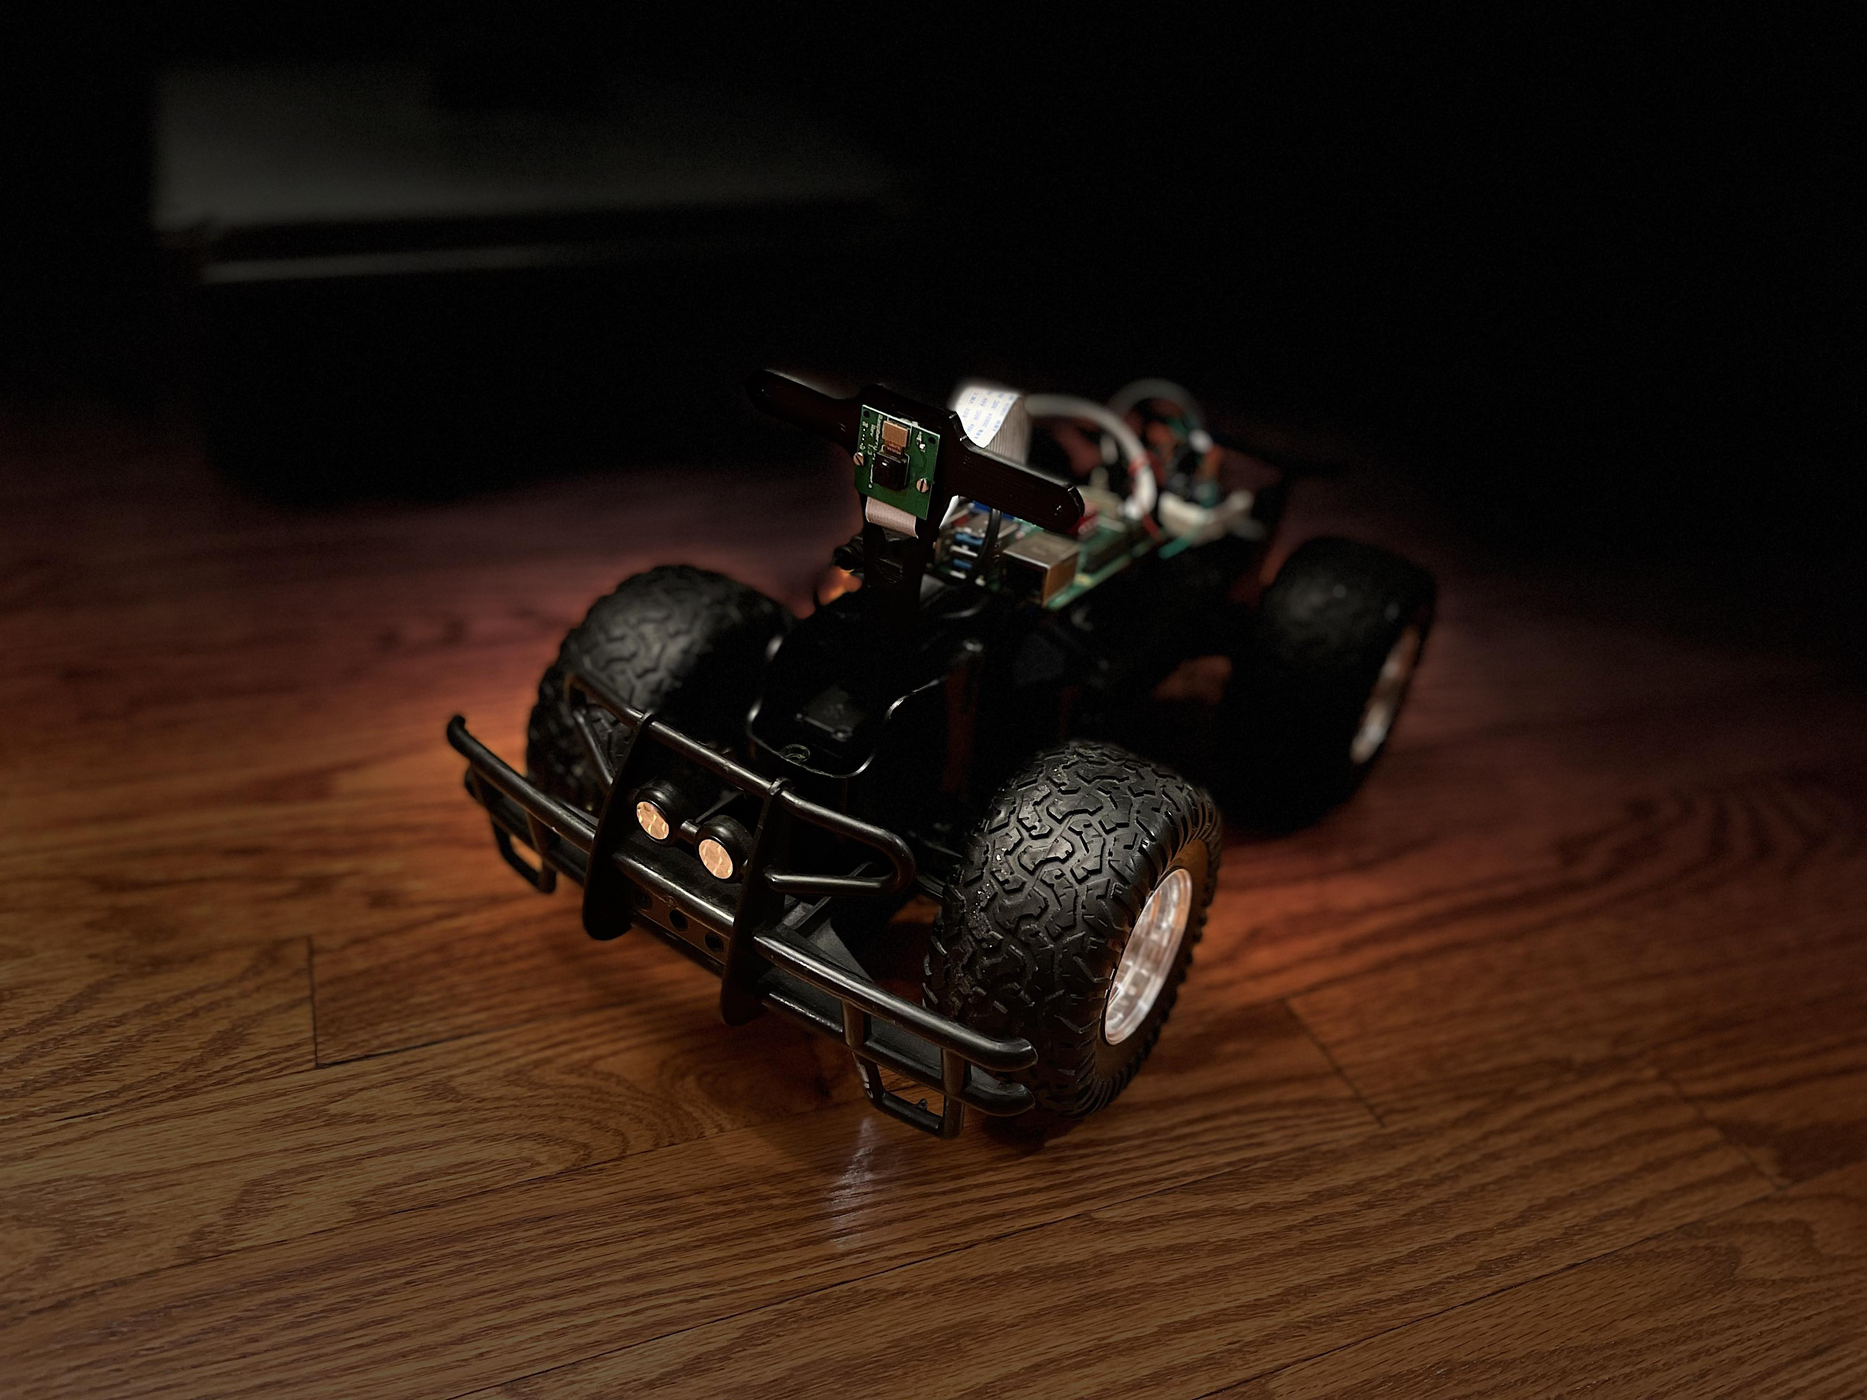
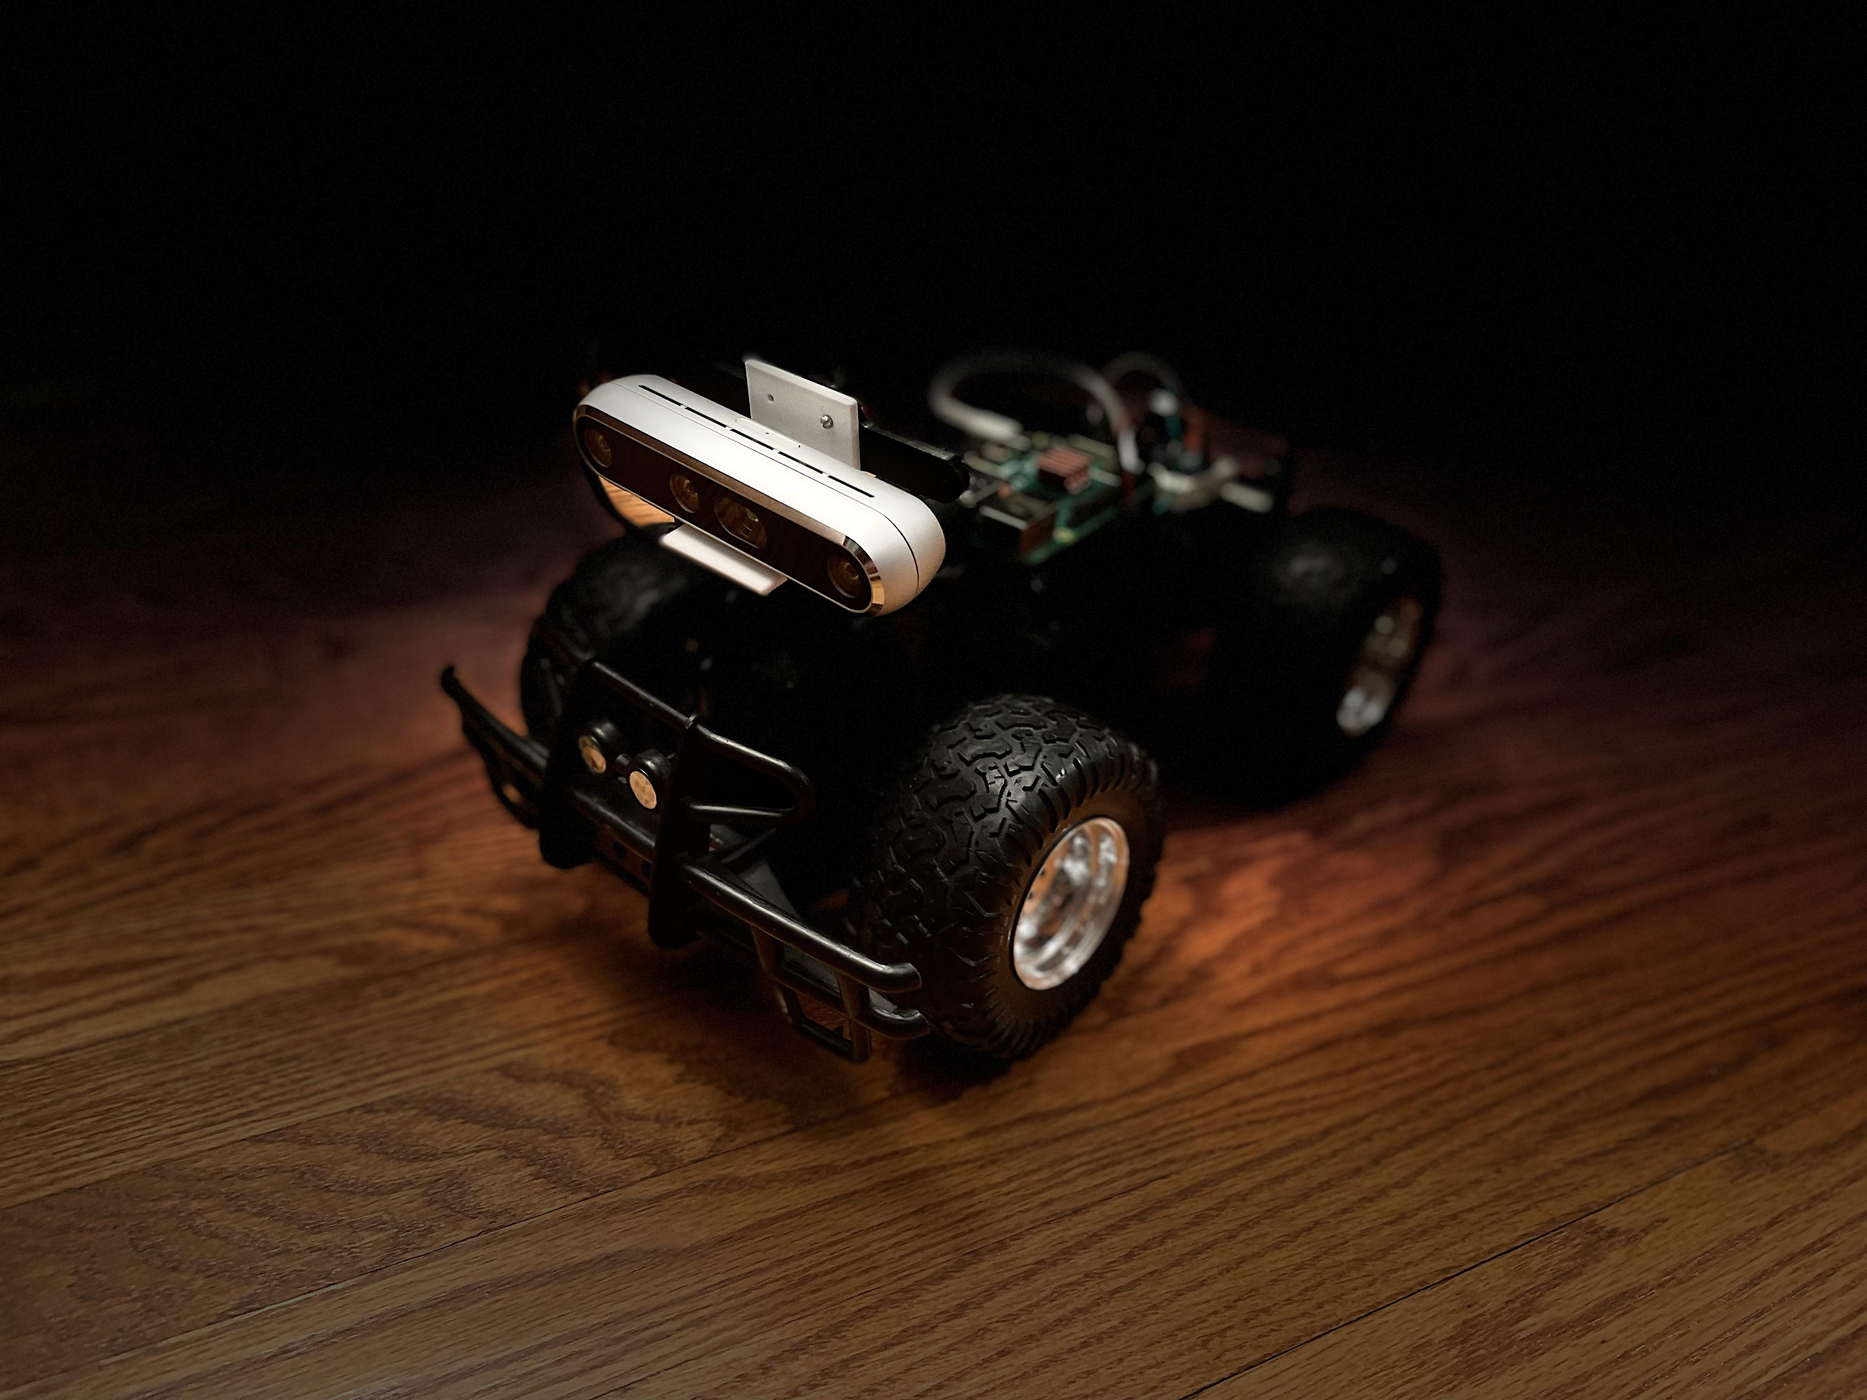
Added more portfolio images, added Austin's image, added Atlas Beta

diff --git a/index.html b/index.html
@@ -60,7 +60,7 @@
     <div class="container position-relative" data-aos="fade-up" data-aos-delay="100">
       <div class="row justify-content-center">
         <div class="text-center">
-          <h1 style="font-size: 128px; color: #D11149">Atlas Autoware</h1>
+          <h1 style="color: #D11149">Atlas Autoware</h1>
           <br><br>
           <h2 style="font-size: 25px; padding-top: 10px;"><b>Driving toward the future.</b></h2>
           <br>
@@ -119,29 +119,6 @@
           <p style="font-weight: bold; font-size: 20px;">Our mission is to build a fully street-legal self-driving car by 2026.</p>
         </div>
         
-
-        <!-- <div class="row content">
-          <div class="col-lg-6">
-            <p style="color: white">
-              Lorem ipsum dolor sit amet, consectetur adipiscing elit, sed do eiusmod tempor incididunt ut labore et dolore
-              magna aliqua.
-            </p>
-            <ul style="color: white">
-              <li><i class="ri-check-double-line"></i> Ullamco laboris nisi ut aliquip ex ea commodo consequat</li>
-              <li><i class="ri-check-double-line"></i> Duis aute irure dolor in reprehenderit in voluptate velit</li>
-              <li><i class="ri-check-double-line"></i> Ullamco laboris nisi ut aliquip ex ea commodo consequat</li>
-            </ul>
-          </div>
-          <div class="col-lg-6 pt-4 pt-lg-0" style="color: white">
-            <p>
-              Ullamco laboris nisi ut aliquip ex ea commodo consequat. Duis aute irure dolor in reprehenderit in voluptate
-              velit esse cillum dolore eu fugiat nulla pariatur. Excepteur sint occaecat cupidatat non proident, sunt in
-              culpa qui officia deserunt mollit anim id est laborum.
-            </p>
-            <a href="#about-video" class="btn-learn-more">AtlasAutoware in Action</a>
-          </div>
-        </div> -->
-        
         <div class="timeline">
           <ul>
             <li>
@@ -162,6 +139,13 @@
             <li>
               <div class="timeline-content">
                 <h2 class="date" style="padding-left: 80%;">2024</h2>
+                <h1>Atlas Beta</h1>
+                <p> Beta is an affordable and accessible 3D-Printed automotive robotic platform. The design specifications will be open-source and made freely available to the public. The primary objective of Atlas Beta is to aid middle and high school teachers, as well as extracurricular clubs. The open-source project will provide a guide with assembly instructions as well as a parts list to purchase to to construct this low cost platform in order to teach students about robotics and self-driving vehicles as well as our proprietary algorithms developed specifically for this platform. A kit will also be available for educators to purchase directly from us to simplify this process and to ensure that all the necessary components are included. The kit will contain all the required 3D-printed parts, electronics, sensors, and a comprehensive manual to assist teachers in effectively implementing the curriculum. </p>
+              </div>
+            </li>
+            <li>
+              <div class="timeline-content">
+                <h2 class="date" style="padding-left: 80%;">2025</h2>
                 <h1>Atlas Alpha</h1>
                 <p>Alpha is an Autonomous Low Speed Vehicle, street legal on all non interstate roads. Its lightweight chassis and electric AWD powertrain make it the perfect platform to develop autonomous driving algorithms on. Alpha uses an array of depth cameras for perception, fusing the data with GNSS and inertial units to gain full awareness of it's current position in space. Alpha is already in development and will help propel research regarding Autonomous driving in low speed urban environments.
                 </p>
@@ -169,7 +153,7 @@
             </li>
             <li>
               <div class="timeline-content">
-                <h2 class="date" style="transform: translateX(-20%);">2025</h2>
+                <h2 class="date" style="transform: translateX(-20%);">2026</h2>
                 <h1>Atlas Proxima</h1>
                 <p>Proxima is a full scale Self-Driving Sedan, and will meet Federal regulations for street legal status on every kind of road. Based on the Alpha platform, it will have a lengthened chassis and body, more powerful powertrain, LIDAR perception, and extended range to meet the needs of a Level 4 self-driving vehicle. With its modular body, low cost powertrain and free API,  Proxima will set a new standard for open source electric vehicles and their capabilities.
                 </p>
@@ -180,207 +164,145 @@
       </div>
     </section><!-- End About Section -->
 
-    <!-- ======= Counts Section ======= -->
-    <!-- <section id="counts" class="counts section-bg">
-      <div class="container">
-
-        <div class="row justify-content-end">
-
-          <div class="col-lg-3 col-md-5 col-6 d-md-flex align-items-md-stretch">
-            <div class="count-box">
-              <span data-purecounter-start="0" data-purecounter-end="20" data-purecounter-duration="2" class="purecounter"></span>
-              <p>Members</p>
-            </div>
-          </div>
-
-          <div class="col-lg-3 col-md-5 col-6 d-md-flex align-items-md-stretch">
-            <div class="count-box">
-              <span data-purecounter-start="0" data-purecounter-end="3279" data-purecounter-duration="2" class="purecounter"></span>
-              <p>Dollars in Expenses</p>
-            </div>
-          </div>
-
-          <div class="col-lg-3 col-md-5 col-6 d-md-flex align-items-md-stretch">
-            <div class="count-box">
-              <span data-purecounter-start="0" data-purecounter-end="200" data-purecounter-duration="2" class="purecounter"></span>
-              <p>Hours of Work</p>
-            </div>
-          </div>
-
-          <div class="col-lg-3 col-md-5 col-6 d-md-flex align-items-md-stretch">
-            <div class="count-box">
-              <span data-purecounter-start="0" data-purecounter-end="7" data-purecounter-duration="2" class="purecounter"></span>
-              <p>Company Officers</p>
-            </div>
-          </div>
-
-        </div>
-
-      </div>
-    </section> -->
-    <!-- End Counts Section -->
-
-    <!-- ======= About Video Section ======= -->
-    <!-- <section id="about-video" class="about-video">
-      <div class="container" data-aos="fade-up">
-
-        <div class="row">
-
-          <div class="col-lg-6 video-box align-self-baseline" data-aos="fade-right" data-aos-delay="100">
-            <img src="assets/img/comingsoon.png" class="img-fluid" alt="">
-            <a href="https://www.youtube.com/watch?v=-Pg819il8lY&ab_channel=TeamRighteousInferno" class="glightbox play-btn mb-4" data-vbtype="video" data-autoplay="true"></a>
-          </div>
-
-          <div class="col-lg-6 pt-3 pt-lg-0 content" data-aos="fade-left" data-aos-delay="100">
-            <h3 style="color: #5bd183">AtlasAutoware in action</h3>
-            <p style="color: white" class="fst-italic">
-              Lorem ipsum dolor sit amet, consectetur adipiscing elit, sed do eiusmod tempor incididunt ut labore et dolore
-              magna aliqua.
-            </p>
-            <ul>
-              <li style="color: white" ><i style="color: #5bd183" class="bx bx-check-double"></i> Ullamco laboris nisi ut aliquip ex ea commodo consequat.</li>
-              <li style="color: white" ><i style="color: #5bd183" class="bx bx-check-double"></i> Duis aute irure dolor in reprehenderit in voluptate velit.</li>
-              <li style="color: white" ><i style="color: #5bd183" class="bx bx-check-double"></i> Voluptate repellendus pariatur reprehenderit corporis sint.</li>
-              <li style="color: white" ><i style="color: #5bd183" class="bx bx-check-double"></i> Ullamco laboris nisi ut aliquip ex ea commodo consequat. Duis aute irure dolor in reprehenderit in voluptate trideta storacalaperda mastiro dolore eu fugiat nulla pariatur.</li>
-            </ul>
-            <p style="color: white">
-              Ullamco laboris nisi ut aliquip ex ea commodo consequat. Duis aute irure dolor in reprehenderit in voluptate
-              velit esse cillum dolore eu fugiat nulla pariatur. Excepteur sint occaecat cupidatat non proident, sunt in
-              culpa qui officia deserunt mollit anim id est laborum
-            </p>
-          </div>
-
-        </div>
-
-      </div>
-    </section> -->
-
 <!-- ======= Portfolio Section ======= -->
 <section id="portfolio" class="portfolio">
   <div class="container" data-aos="fade-up">
     <div class="section-title">
-      <h2 style="color: #5bd183">Photo Gallery</h2>
+      <h2 style="color: #D11149">Photo Gallery</h2>
       <p>  </p>
     </div>
     <div class="row" data-aos="fade-up" data-aos-delay="150">
       <div class="col-lg-12 d-flex justify-content-center">
         <ul id="portfolio-flters">
           <li data-filter="*" class="filter-active">All</li>
-          <li data-filter=".filter-one">Filter 1</li>
-          <li data-filter=".filter-two">Filter 2</li>
-          <li data-filter=".filter-three">Filter 3</li>
+          <li data-filter=".filter-team">Team</li>
+          <li data-filter=".filter-candid">Candid</li>
+          <li data-filter=".filter-self">Self-Driving</li>
+          <li data-filter=".filter-lsv">LSV</li>
         </ul>
       </div>
     </div>
     <div class="row portfolio-container" data-aos="fade-up" data-aos-delay="300">
-      <div class="col-lg-4 col-md-6 portfolio-item filter-one">
+      <div class="col-lg-4 col-md-6 portfolio-item filter-candid">
         <div class="portfolio-wrap">
           <img src="assets/img/portfolio/portfolio-1.jpg" class="img-fluid" alt="">
           <div class="portfolio-info">
-            <h4>Photo 1</h4>
-            <p>Description</p>
+            <!-- <h4>Photo 1</h4> -->
+            <p>Adi working on the early stages of our 1/10 scale autonomous racecar. In front of it is SpeedRacer, our low-cost autonomous racing platform which incorporates a LiDAR sensor and ESP32 microcontroller. </p>
             <div class="portfolio-links">
-              <a href="assets/img/portfolio/portfolio-1.jpg" data-gallery="portfolioGallery" class="portfolio-lightbox" title="Description"><i class="bx bx-plus"></i></a>
+              <a href="assets/img/portfolio/portfolio-1.jpg" data-gallery="portfolioGallery" class="portfolio-lightbox" title="Description"> <i class="bx bx-plus"></i></a>
             </div>
           </div>
         </div>
       </div>
-      <div class="col-lg-4 col-md-6 portfolio-item filter-two">
+      <div class="col-lg-4 col-md-6 portfolio-item filter-self">
         <div class="portfolio-wrap">
           <img src="assets/img/portfolio/portfolio-2.jpg" class="img-fluid" alt="">
           <div class="portfolio-info">
-            <h4>Photo 2</h4>
-            <p>Description</p>
+            <!-- <h4>Photo 2</h4> -->
+            <p>Early testing in 2022 of our SpeedRacer platform.</p>
             <div class="portfolio-links">
               <a href="assets/img/portfolio/portfolio-2.jpg" data-gallery="portfolioGallery" class="portfolio-lightbox" title="Description"><i class="bx bx-plus"></i></a>
             </div>
           </div>
         </div>
       </div>
-      <div class="col-lg-4 col-md-6 portfolio-item filter-two">
+      <div class="col-lg-4 col-md-6 portfolio-item filter-self">
         <div class="portfolio-wrap">
           <img src="assets/img/portfolio/portfolio-3.jpg" class="img-fluid" alt="">
           <div class="portfolio-info">
-            <h4>Photo 3</h4>
-            <p>Description</p>
+            <!-- <h4>Photo 3</h4> -->
+            <p>The final SpeedRacer prototype, with 3 point LiDAR sensors added for emergency braking and steering. </p>
             <div class="portfolio-links">
               <a href="assets/img/portfolio/portfolio-3.jpg" data-gallery="portfolioGallery" class="portfolio-lightbox" title="Description"><i class="bx bx-plus"></i></a>
             </div>
           </div>
         </div>
       </div>
-      <div class="col-lg-4 col-md-6 portfolio-item filter-three">
+      <div class="col-lg-4 col-md-6 portfolio-item filter-self">
+        <div class="portfolio-wrap">
+          <img src="assets/img/portfolio/portfolio-4.jpg" class="img-fluid" alt="">
+          <div class="portfolio-info">
+            <!-- <h4>Photo 4</h4> -->
+            <p>Manav's testing car, with an Intel RealSense stereo depth camera mounted on it. </p>
+            <div class="portfolio-links">
+              <a href="assets/img/portfolio/portfolio-4.jpg" data-gallery="portfolioGallery" class="portfolio-lightbox" title="Description"><i class="bx bx-plus"></i></a>
+            </div>
+          </div>
+        </div>
+      </div>
+      <div class="col-lg-4 col-md-6 portfolio-item filter-self">
         <div class="portfolio-wrap">
           <img src="assets/img/portfolio/portfolio-5.jpg" class="img-fluid" alt="">
           <div class="portfolio-info">
-            <h4>Photo 4</h4>
-            <p>Description</p>
+            <!-- <h4>Photo 5</h4> -->
+            <p>A close-up of the stereo depth camera mounting to the car chassis.</p>
             <div class="portfolio-links">
               <a href="assets/img/portfolio/portfolio-5.jpg" data-gallery="portfolioGallery" class="portfolio-lightbox" title="Description"><i class="bx bx-plus"></i></a>
             </div>
           </div>
         </div>
       </div>
-      <div class="col-lg-4 col-md-6 portfolio-item filter-three">
-        <div class="portfolio-wrap">
-          <img src="assets/img/portfolio/portfolio-7.jpg" class="img-fluid" alt="">
-          <div class="portfolio-info">
-            <h4>Photo 5</h4>
-            <p>Description</p>
-            <div class="portfolio-links">
-              <a href="assets/img/portfolio/portfolio-7.jpg" data-gallery="portfolioGallery" class="portfolio-lightbox" title="Description"><i class="bx bx-plus"></i></a>
-            </div>
-          </div>
-        </div>
-      </div>
-      <!-- <div class="col-lg-4 col-md-6 portfolio-item filter-one">
+      <div class="col-lg-4 col-md-6 portfolio-item filter-lsv">
         <div class="portfolio-wrap">
           <img src="assets/img/portfolio/portfolio-6.jpg" class="img-fluid" alt="">
           <div class="portfolio-info">
-            <h4>Photo 6</h4>
-            <p>Description</p>
+            <!-- <h4>Photo 6</h4> -->
+            <p>  </p>
             <div class="portfolio-links">
               <a href="assets/img/portfolio/portfolio-6.jpg" data-gallery="portfolioGallery" class="portfolio-lightbox" title="Description"><i class="bx bx-plus"></i></a>
             </div>
           </div>
         </div>
       </div>
-      <div class="col-lg-4 col-md-6 portfolio-item filter-two">
+      <div class="col-lg-4 col-md-6 portfolio-item filter-lsv">
         <div class="portfolio-wrap">
           <img src="assets/img/portfolio/portfolio-7.jpg" class="img-fluid" alt="">
           <div class="portfolio-info">
-            <h4>Photo 7</h4>
-            <p>Description</p>
+            <!-- <h4>Photo 7</h4> -->
+            <p>  </p>
             <div class="portfolio-links">
               <a href="assets/img/portfolio/portfolio-7.jpg" data-gallery="portfolioGallery" class="portfolio-lightbox" title="Description"><i class="bx bx-plus"></i></a>
             </div>
           </div>
         </div>
-      </div> -->
-      <!-- <div class="col-lg-4 col-md-6 portfolio-item filter-two">
+      </div>
+      <div class="col-lg-4 col-md-6 portfolio-item filter-lsv">
         <div class="portfolio-wrap">
           <img src="assets/img/portfolio/portfolio-8.jpg" class="img-fluid" alt="">
           <div class="portfolio-info">
-            <h4>Photo 8</h4>
-            <p>Description</p>
+            <!-- <h4>Photo 8</h4> -->
+            <p>  </p>
             <div class="portfolio-links">
               <a href="assets/img/portfolio/portfolio-8.jpg" data-gallery="portfolioGallery" class="portfolio-lightbox" title="Description"><i class="bx bx-plus"></i></a>
             </div>
           </div>
         </div>
       </div>
-      <div class="col-lg-4 col-md-6 portfolio-item filter-three">
+      <div class="col-lg-4 col-md-6 portfolio-item filter-candid">
         <div class="portfolio-wrap">
           <img src="assets/img/portfolio/portfolio-9.jpg" class="img-fluid" alt="">
           <div class="portfolio-info">
-            <h4>Photo 9</h4>
-            <p>Description</p>
+            <!-- <h4>Photo 9</h4> -->
+            <p>  </p>
             <div class="portfolio-links">
               <a href="assets/img/portfolio/portfolio-9.jpg" data-gallery="portfolioGallery" class="portfolio-lightbox" title="Description"><i class="bx bx-plus"></i></a>
             </div>
           </div>
         </div>
-      </div> -->
+      </div>
+      <div class="col-lg-4 col-md-6 portfolio-item filter-team">
+        <div class="portfolio-wrap">
+          <img src="assets/img/portfolio/portfolio-10.jpg" class="img-fluid" alt="">
+          <div class="portfolio-info">
+            <!-- <h4>Photo 10</h4> -->
+            <p> The Atlas Autoware team (2022) </p>
+            <div class="portfolio-links">
+              <a href="assets/img/portfolio/portfolio-10.jpg" data-gallery="portfolioGallery" class="portfolio-lightbox" title="Description"><i class="bx bx-plus"></i></a>
+            </div>
+          </div>
+        </div>
+      </div>
     </div>
   </div>
 </section><!-- End Portfolio Section -->
@@ -444,7 +366,7 @@
           <div class="col-lg-3 col-md-6 d-flex align-items-stretch" style="transform: translateX(50%);" data-aos="fade-up" data-aos-delay="200">
             <div class="member">
               <div class="member-img">
-                <img src="assets/img/whitebg.jpeg" class="img-fluid" alt="">
+                <img src="assets/img/team/austin_thomas.jpg" class="img-fluid" alt="">
                 <div class="social">
                   <a href=""><i class="bi bi-facebook"></i></a>
                   <a href=""><i class="bi bi-linkedin"></i></a>

diff --git a/assets/css/style.css b/assets/css/style.css
@@ -418,7 +418,7 @@ h6 {
 
 #hero h1 {
   margin: 0;
-  font-size: 56px;
+  font-size: 100px;
   font-weight: 700;
   line-height: 72px;
   color: white;
@@ -521,7 +521,7 @@ h6 {
   }
 
   #hero h1 {
-    font-size: 28px;
+    font-size: 50px;
     line-height: 36px;
   }
 
